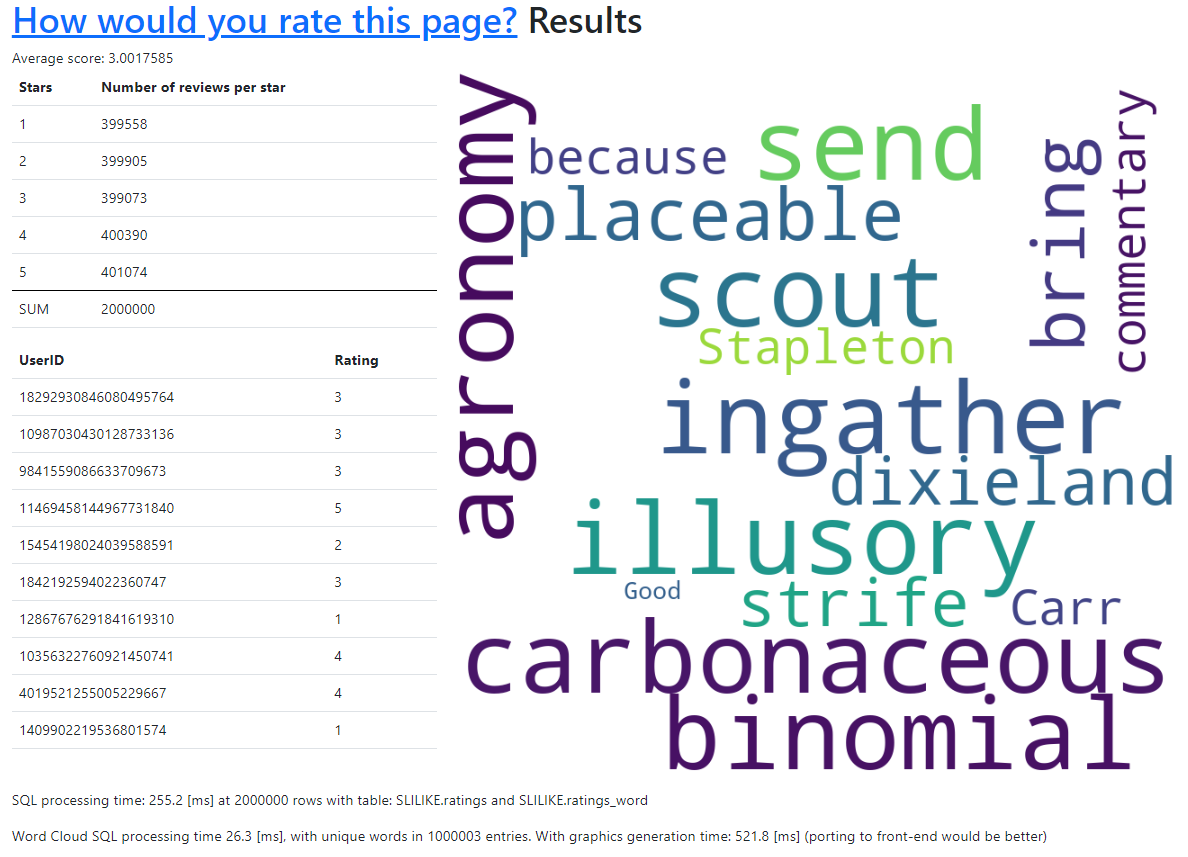
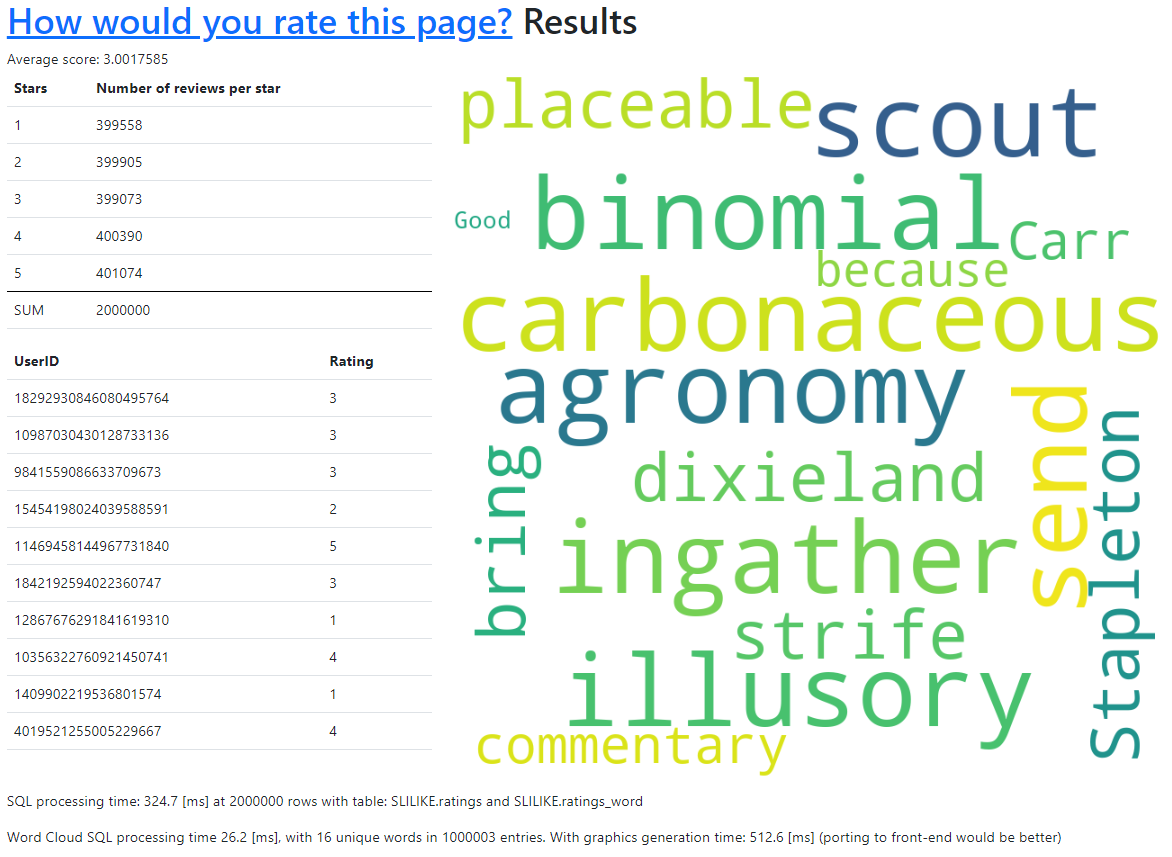
Update website metrics

diff --git a/templates/results.html b/templates/results.html
@@ -55,7 +55,7 @@ Not enough data
     <p>SQL processing time: {{ context.render_time }} [ms] at {{ context.star_stats_sum }} rows with
         table: {{ context.table }} and {{ context.table }}{{ context.table_word }}</p>
     <p>Word Cloud SQL processing time {{context.word_cloud_query_time}} [ms],
-        with {{ context.word_cloud_cnt }} unique words in {{ context.word_cloud_all_cnt }} entries.
+        with {{ context.word_cloud_unique_cnt }} unique words in {{ context.word_cloud_all_cnt }} entries.
         With graphics generation time: {{ context.word_cloud_gen_time }} [ms]
         (porting to front-end would be better)</p>
 </div>
